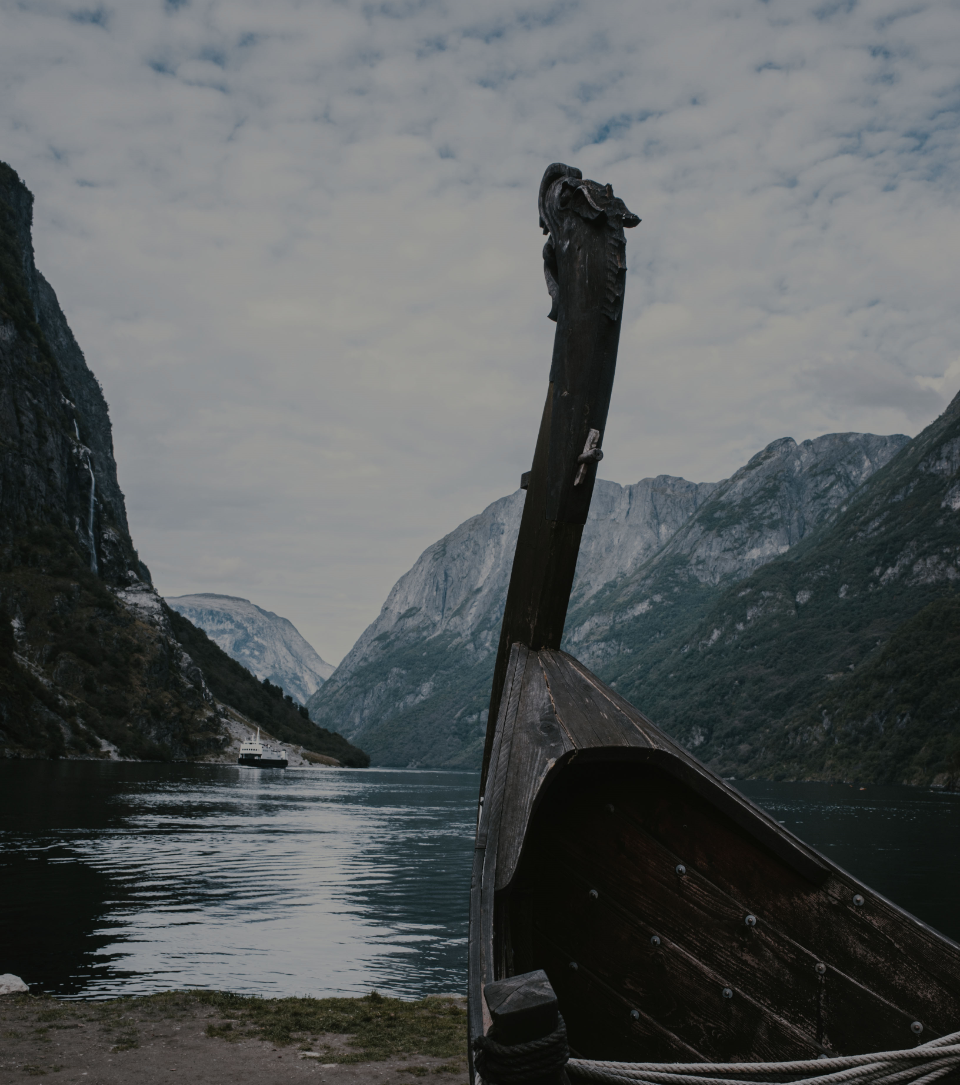
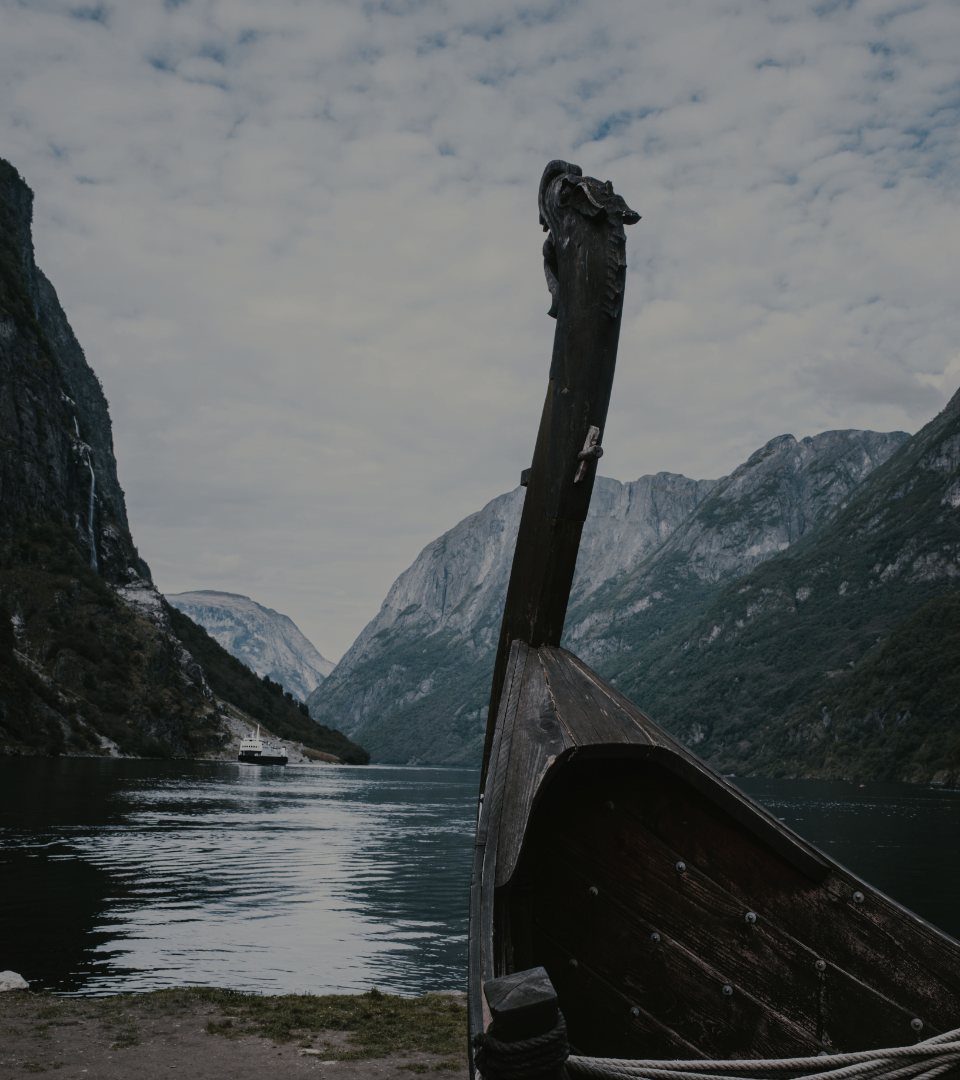
:construction: Add left part of contacts

diff --git a/scss/layout/_contacts.scss b/scss/layout/_contacts.scss
@@ -9,9 +9,77 @@
         .contact-part{
             width: 50%;
             height: 100vh;
-            background-image: url(img/Contact.png);
-            background-position: center;
+            background-image: url(img/contact.png);
             background-size: cover;
+            background-position: bottom;
+            display: flex;
+            align-items: center;
+
+
+            .contact{
+                width: 64%;
+                margin-left: 11.25%;
+
+                h2{
+                    font-family: 'Montserrat', sans-serif;
+                    font-weight: bold;
+                    font-size: 52px;
+                    color: white;
+                    text-shadow: 4px 4px 2px rgba($color: #000000, $alpha: 0.41);
+                    margin-bottom: 5%;
+                }
+
+                div{
+                    display: flex;
+                    gap: 25px;
+                    align-items: center;
+
+                    p{
+                        color: white;
+                        font-family: 'Montserrat', sans-serif;
+                        font-weight: 500;
+                        font-size: 31px;
+                    }
+                }
+
+                .social{
+                    display: flex;
+                    justify-content: space-between;
+                    margin-top: 6.4%;
+
+                    div{
+                        display: flex;
+                        flex-direction: column;
+                        gap: 10px;
+                    }
+
+                    a{
+                        text-decoration: none;
+                        background-color: white;
+                        border-radius: 50px;
+                        color: #111740;
+                        padding: 20px;
+                        width: 66px;
+                        height: 66px;
+                        display: grid;
+                        border: 5px solid #111740;
+                        display: flex;
+                        justify-content: center;
+                        place-items: center;
+
+                        i{
+                            font-size: 32px;
+                        }
+                    }
+
+                    p{
+                        font-family: 'Montserrat', sans-serif;
+                        font-weight: 500;
+                        font-size: 20px;
+                    }
+                }
+
+            }
         }
     }
     

diff --git a/style.css b/style.css
@@ -96,9 +96,66 @@ header nav ul a:nth-of-type(3) {
 .contacts-body .content .contact-part {
   width: 50%;
   height: 100vh;
-  background-image: url(img/Contact.png);
-  background-position: center;
+  background-image: url(img/contact.png);
   background-size: cover;
+  background-position: bottom;
+  display: flex;
+  align-items: center;
+}
+.contacts-body .content .contact-part .contact {
+  width: 64%;
+  margin-left: 11.25%;
+}
+.contacts-body .content .contact-part .contact h2 {
+  font-family: "Montserrat", sans-serif;
+  font-weight: bold;
+  font-size: 52px;
+  color: white;
+  text-shadow: 4px 4px 2px rgba(0, 0, 0, 0.41);
+  margin-bottom: 5%;
+}
+.contacts-body .content .contact-part .contact div {
+  display: flex;
+  gap: 25px;
+  align-items: center;
+}
+.contacts-body .content .contact-part .contact div p {
+  color: white;
+  font-family: "Montserrat", sans-serif;
+  font-weight: 500;
+  font-size: 31px;
+}
+.contacts-body .content .contact-part .contact .social {
+  display: flex;
+  justify-content: space-between;
+  margin-top: 6.4%;
+}
+.contacts-body .content .contact-part .contact .social div {
+  display: flex;
+  flex-direction: column;
+  gap: 10px;
+}
+.contacts-body .content .contact-part .contact .social a {
+  text-decoration: none;
+  background-color: white;
+  border-radius: 50px;
+  color: #111740;
+  padding: 20px;
+  width: 66px;
+  height: 66px;
+  display: grid;
+  border: 5px solid #111740;
+  display: flex;
+  justify-content: center;
+  place-items: center;
+}
+.contacts-body .content .contact-part .contact .social a i {
+  font-size: 32px;
+}
+.contacts-body .content .contact-part .contact .social p {
+  font-family: "Montserrat", sans-serif;
+  font-weight: 500;
+  font-size: 20px;
 }
 
 /*# sourceMappingURL=style.css.map */

diff --git a/index.html b/index.html
@@ -6,6 +6,7 @@
     <meta name="viewport" content="width=device-width, initial-scale=1.0">
     <link rel="stylesheet" href="style.css">
     <link rel="icon" href="img/logo.png">
+    <link rel="stylesheet" href="https://use.fontawesome.com/releases/v5.15.4/css/all.css" integrity="sha384-DyZ88mC6Up2uqS4h/KRgHuoeGwBcD4Ng9SiP4dIRy0EXTlnuz47vAwmeGwVChigm" crossorigin="anonymous">
     <title>Odin Core - Contact</title>
 </head>
 <body class="contacts-body">
@@ -29,7 +30,31 @@
     <section class="content">
 
         <section class="contact-part">
-
+            <div class="contact">
+                <h2>Odin Core</h2>
+                <div class="mail">
+                    <img src="img/logo-mail.png" alt="Logo Mail">
+                    <p>bastiensaudemont@gmail.com</p>
+                </div>
+                <div class="phone">
+                    <img src="img/logo-phone.png" alt="Logo Phone">
+                    <p>06 07 42 42 42</p>
+                </div>
+                <div class="social">
+                    <div>
+                        <a href="https://fr.linkedin.com/company/odincore" target="_blank"><i class="fab fa-linkedin-in"></i></a>
+                        <p>LinkedIn</p>
+                    </div>
+                    <div>
+                        <a href="https://www.facebook.com/odincore/" target="_blank"><i class="fab fa-facebook-f"></i></a>
+                        <p>Facebook</p>
+                    </div>
+                    <div>
+                        <a href="https://twitter.com/odincore?lang=fr" target="_blank"><i class="fab fa-twitter"></i></a>
+                        <p>Twitter</p>
+                    </div>
+                </div>
+            </div>
         </section>
 
         <section class="form-part">
